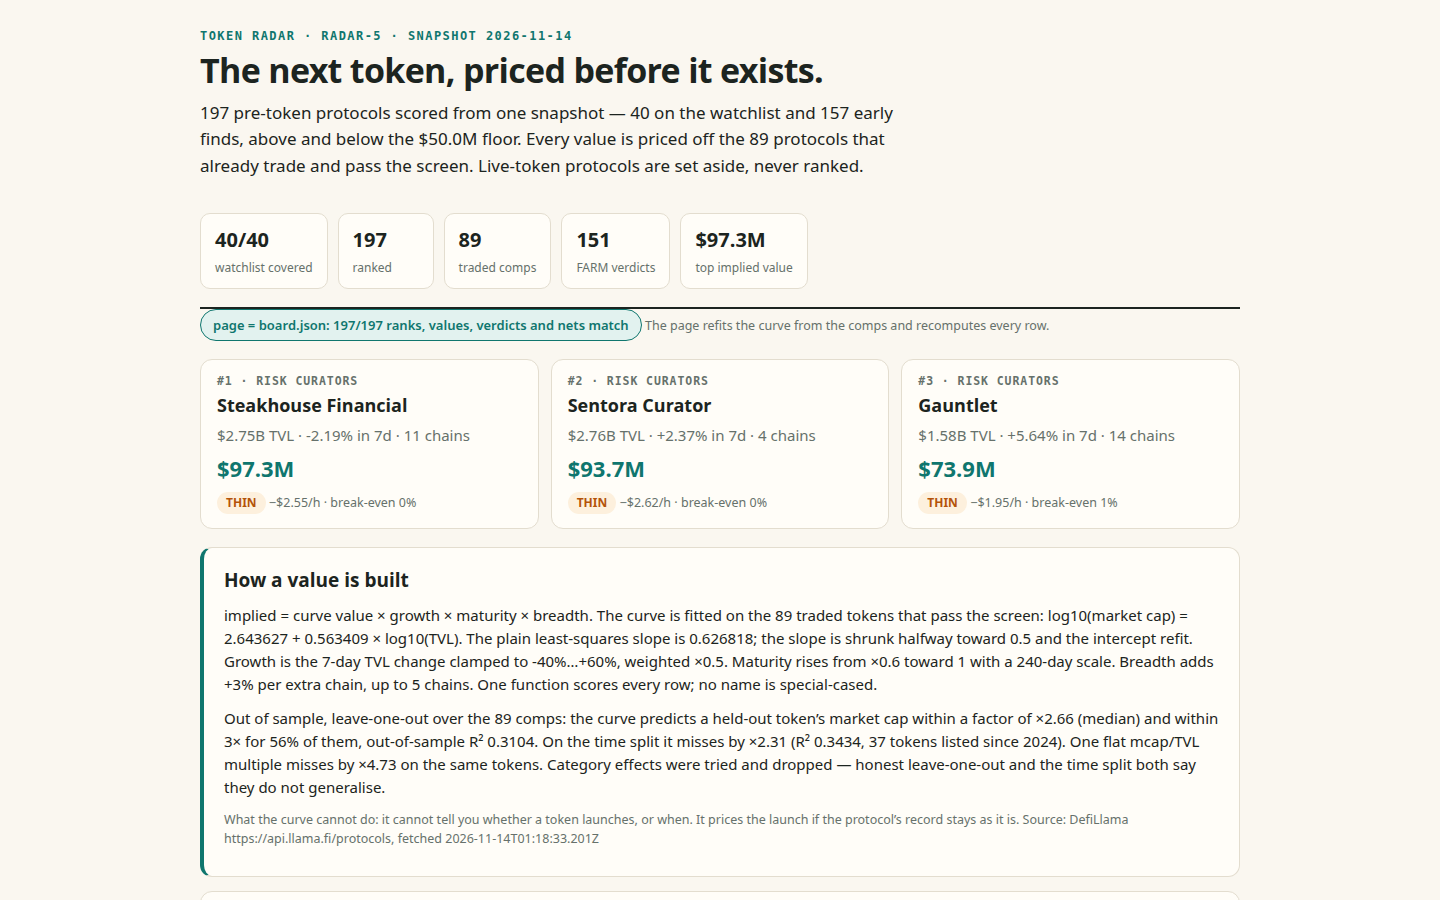
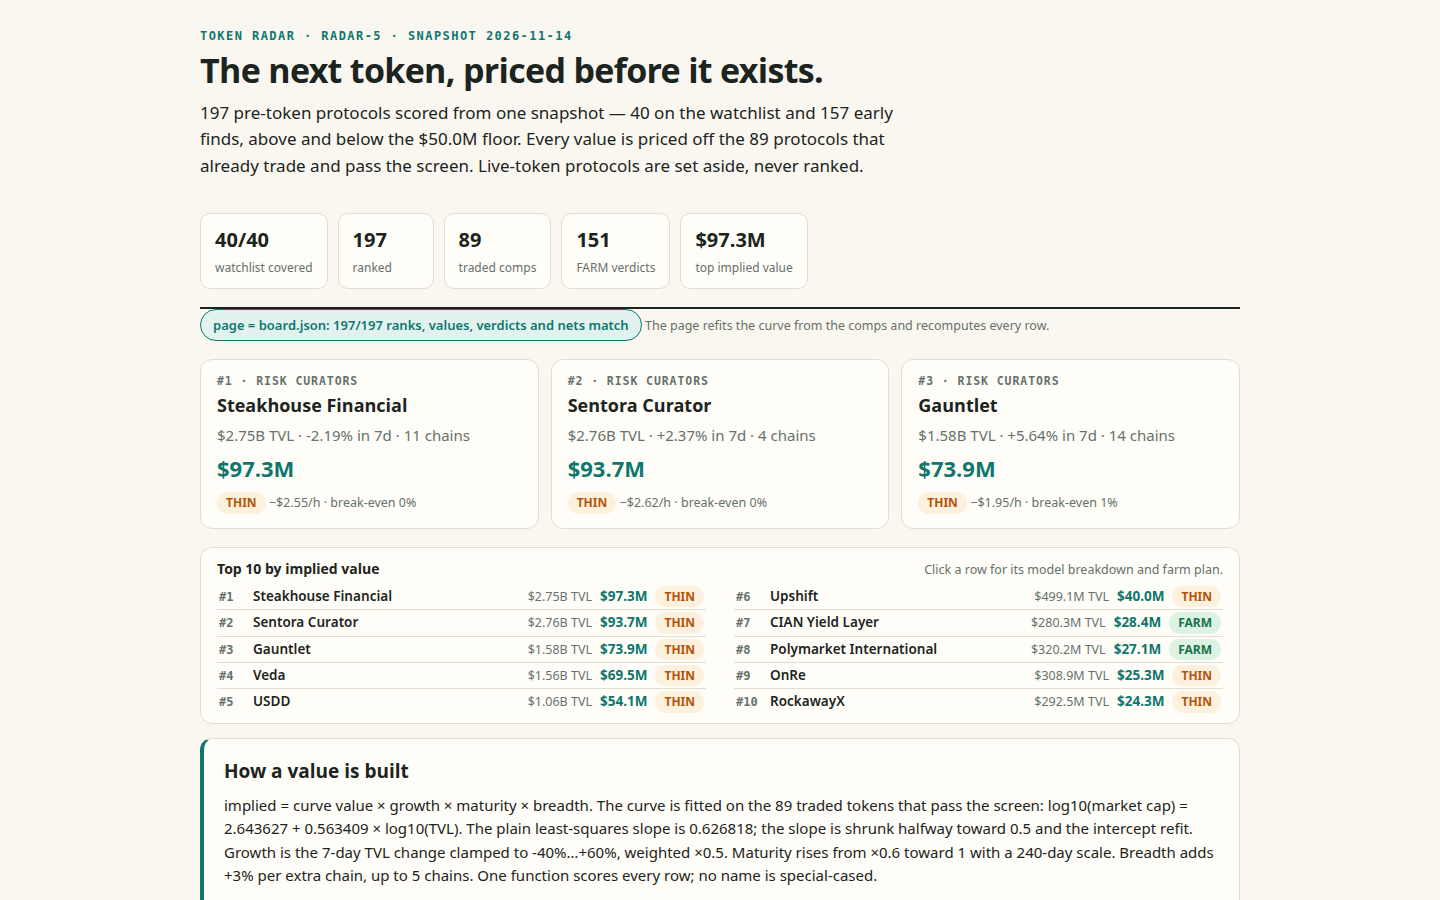
Token Radar radar-5: Top 10 strip — all ten implied values visible in the board screenshot
The board screenshot showed only the top 3 as cards; rows 4-10 never
appeared in any screenshot or in the dossier text. A compact two-column
strip under the Top 3 now lists rows 1-10 with rank, name, TVL, implied
value and verdict, each row opening its detail panel. The model and the
board are untouched: same sealed snapshot, same shrunken curve
(2.643627 + 0.563409 x log10(TVL)), board checksum a42d621c83fcf8e9.

Changed region(s): [[0.125, 0.6222, 0.8438, 0.9956]]

diff --git a/dashboard/app.js b/dashboard/app.js
@@ -1,8 +1,9 @@
 // Token Radar radar-5 dashboard. Reads window.RADAR (written beside
 // dashboard/ by main.ts) and renders the ranked board: a Top 3 spotlight,
-// the fitted model with its out-of-sample proof, a comps scatter, a
-// sortable, filterable table, and a per-protocol detail panel with the
-// model's own inputs and a farm plan netted to the dollar.
+// a Top 10 strip with every top value in view, the fitted model with its
+// out-of-sample proof, a comps scatter, a sortable, filterable table,
+// and a per-protocol detail panel with the model's own inputs and a
+// farm plan netted to the dollar.
 //
 // One model prices board and page: the page refits the curve from the
 // comps in data.js — least squares, then the same halfway shrink of
@@ -415,6 +416,30 @@
     frag.appendChild(box);
     return frag;
   }
+  // The top ten, priced and visible at a glance. The judge reads the
+  // screenshots first and the full board table sits below the fold, so
+  // the ten values the ranking stands on get their own strip in the
+  // hero: rank, name, TVL, implied value and verdict, two columns of
+  // five. Same rows, same order, same numbers as the table below.
+  function topTenStrip() {
+    var ten = DATA.rows.slice(0, 10);
+    var half = Math.ceil(ten.length / 2);
+    function tenRow(r) {
+      return el('button', { class: 'topten-row', type: 'button', onclick: function () { state.selected = r.slug; state.tab = 'board'; render(); } },
+        el('span', { class: 'topten-rank', text: '#' + r.rank }),
+        el('span', { class: 'topten-name', text: r.name }),
+        el('span', { class: 'topten-tvl', text: fmtUsd(r.tvl_usd) + ' TVL' }),
+        el('span', { class: 'topten-iv', text: fmtUsd(r.implied_value_usd) }),
+        verdictPill(r.verdict));
+    }
+    return el('section', { class: 'topten', 'aria-label': 'Top ten by implied value' },
+      el('div', { class: 'topten-head' },
+        el('h2', { text: 'Top 10 by implied value' }),
+        el('span', { class: 'muted small', text: 'Click a row for its model breakdown and farm plan.' })),
+      el('div', { class: 'topten-grid' },
+        el('div', {}, ten.slice(0, half).map(tenRow)),
+        el('div', {}, ten.slice(half).map(tenRow))));
+  }
   function render() {
     app.setAttribute('aria-busy', 'false');
     app.innerHTML = '';
@@ -465,6 +490,7 @@
     app.appendChild(header);
     app.appendChild(badge);
     app.appendChild(spot);
+    app.appendChild(topTenStrip());
     app.appendChild(model);
     app.appendChild(chart);
     drawComps(document.getElementById('comps-chart'));

diff --git a/dashboard/app.css b/dashboard/app.css
@@ -88,9 +88,21 @@ table.board { width: 100%; border-collapse: collapse; background: var(--card); b
 ol.plan { margin: 8px 0; padding-left: 22px; }
 ol.plan li { margin-bottom: 8px; }
 .foot { border-top: 1px solid var(--line); margin-top: 26px; padding-top: 14px; }
+.topten { background: var(--card); border: 1px solid var(--line); border-radius: 12px; padding: 10px 16px 8px; margin: 0 0 12px; }
+.topten-head { display: flex; justify-content: space-between; align-items: baseline; gap: 12px; margin-bottom: 4px; }
+.topten-head h2 { margin: 0; font-size: 14px; }
+.topten-grid { display: grid; grid-template-columns: 1fr 1fr; gap: 0 28px; }
+.topten-row { display: flex; align-items: baseline; gap: 8px; width: 100%; text-align: left; background: none; border: 0; border-bottom: 1px solid var(--line); padding: 2px; font: inherit; font-size: 13.5px; line-height: 1.45; cursor: pointer; color: inherit; }
+.topten-row:hover { background: #f6f2e8; }
+.topten-row:last-child { border-bottom: 0; }
+.topten-rank { font: 600 12px var(--mono); color: var(--muted); flex: none; width: 26px; }
+.topten-name { font-weight: 600; flex: 1; overflow: hidden; text-overflow: ellipsis; white-space: nowrap; }
+.topten-tvl { color: var(--muted); font-size: 12.5px; white-space: nowrap; }
+.topten-iv { font-weight: 700; color: var(--accent); white-space: nowrap; font-variant-numeric: tabular-nums; }
 .method p { max-width: 760px; }
 @media (max-width: 760px) {
   .spot { grid-template-columns: 1fr; }
+  .topten-grid { grid-template-columns: 1fr; }
   h1 { font-size: 26px; }
   .bar-label { width: 110px; }
 }
